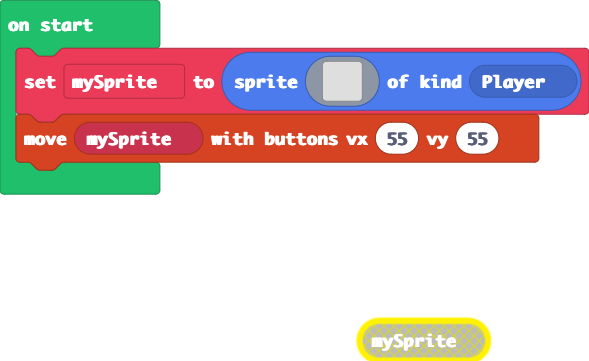
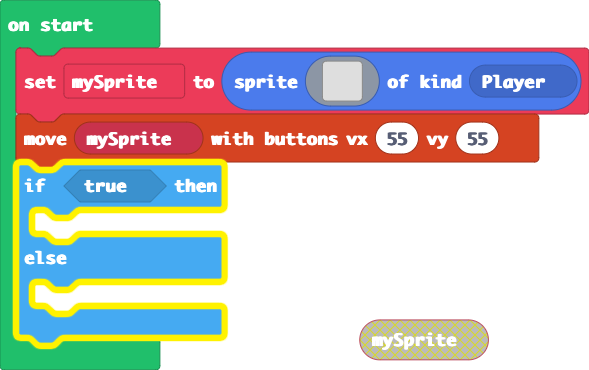
Update main.blocks, main.ts

diff --git a/main.ts b/main.ts
@@ -1,2 +1,7 @@
 let mySprite = sprites.create(assets.image`Peter Smith`, SpriteKind.Player)
 controller.moveSprite(mySprite, 55, 55)
+if (true) {
+	
+} else {
+	
+}
